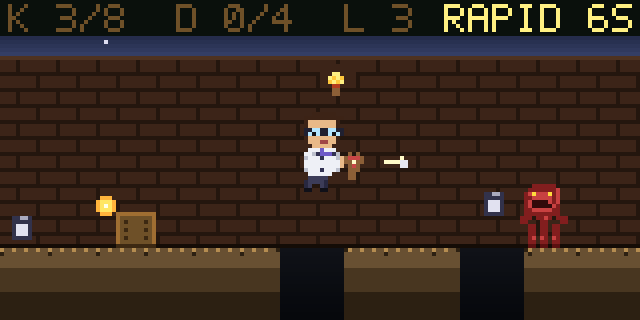
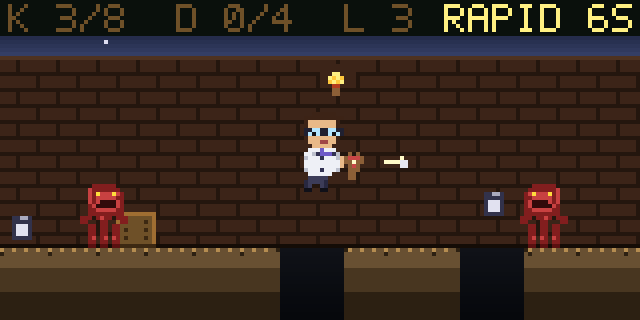
v0.6: 60 fps, framerate-independent physics, smart ghouls
Controls: the felt sluggishness was three problems stacked.

1. TARGET_FPS bumped 30 -> 60. Doubles the input poll rate (so a
   keypress is seen in <=17 ms instead of <=33 ms) and smooths motion.
2. Walk speed bumped 42 -> 95 px/sec. Player crosses a 160 px viewport
   in ~1.7 s instead of ~3.8 s.
3. ESC-sequence wait in get_keys cut from 30 ms to 5 ms. Arrow keys
   no longer eat almost a whole frame on every press.

To make the FPS bump safe, all physics is now expressed in real-time
units (px/sec, px/sec^2) and integrated with dt in tick(). Per-tick
constants are gone: JUMP_V0 / GRAVITY / PELLET_SPEED / ENEMY_SPEED_*
became JUMP_V0_PX_PER_SEC, GRAVITY_PX_PER_SEC2, PELLET_PX_PER_SEC,
ENEMY_PX_PER_SEC_MIN/MAX. Trajectory is now identical at any FPS.
Jump apex is ~24 px so 2-stacks (18 px) clear with comfortable margin.

Ghoul AI: instead of walking through crates and into pits, ghouls
now check the next step. If a crate or gap is in the way (or the
world boundary), they reverse direction. Net effect: they pace
locally around obstacles and the player has to choose the right
moment to engage.

Spawning: 50/50 chance of spawning from in front of the camera
(walking left) or from behind it (walking right) when there's room
behind. Sprites flip to face the direction they're walking, so a
ghoul approaching from the left actually faces right toward the player.

Enemy class field renamed speed -> vx (signed velocity in px/sec).
[…]

Changed region(s): [[0.125, 0.5625, 0.2188, 0.7812]]

diff --git a/game.py b/game.py
@@ -24,29 +24,29 @@ import wave
 # ===================================================================
 # Tuning
 # ===================================================================
-TARGET_FPS         = 30
-FRAME_DT           = 1.0 / TARGET_FPS
+TARGET_FPS         = 60        # bumped from 30 -- doubles input poll rate, halves
+FRAME_DT           = 1.0 / TARGET_FPS  # input latency, smooths motion.
 PLAYER_MIN_X       = 6
-PLAYER_SPEED       = 1.4       # px / tick (per discrete key event)
-PLAYER_PX_PER_SEC  = 42.0      # continuous walk speed while a direction is held
-MOVE_HOLD_S        = 0.30      # how long a key-press counts as "still held" so we
-                               # bridge the OS pre-repeat delay (~250-500ms on macOS)
-WORLD_SCREENS      = 3         # total world width in screen-widths
-CAMERA_DEAD_LO     = 0.35      # camera scrolls left if player < this fraction of fb_w
-CAMERA_DEAD_HI     = 0.55      # camera scrolls right if player > this fraction of fb_w
-PELLET_SPEED       = 3.4       # px / tick (straight shot, no gravity)
-PELLET_COOLDOWN    = 0.18      # seconds between shots
-JUMP_V0            = 2.1       # initial upward velocity (px / tick)
-GRAVITY            = 0.11      # downward accel (px / tick^2)
-                               # max jump height = JUMP_V0^2 / (2*GRAVITY) ~= 20 px
-                               # so a 2-stack crate (18 px) is just clearable.
-ENEMY_SPEED_MIN    = 0.30
-ENEMY_SPEED_MAX    = 0.65
-ENEMY_SPAWN_MIN    = 0.9
-ENEMY_SPAWN_MAX    = 2.0
-TOTAL_ENEMIES      = 8
-PLAYER_LIVES       = 3
-HIT_COOLDOWN       = 0.8
+# All physics are now expressed in real-time (px/sec, px/sec^2). Per-tick
+# values get derived in tick() via dt so physics is identical at any FPS.
+PLAYER_PX_PER_SEC      = 95.0   # walk speed -- ~2x snappier than the v0.5 42.
+MOVE_HOLD_S            = 0.45   # extends a single keypress this long so we walk
+                                # through the OS auto-repeat pre-delay (250-500ms).
+WORLD_SCREENS          = 3
+CAMERA_DEAD_LO         = 0.35
+CAMERA_DEAD_HI         = 0.55
+PELLET_PX_PER_SEC      = 160.0  # ~50% snappier than before.
+PELLET_COOLDOWN        = 0.18   # seconds between shots
+JUMP_V0_PX_PER_SEC     = 150.0  # initial jump velocity. With GRAVITY below,
+GRAVITY_PX_PER_SEC2    = 460.0  # peak jump = v0^2 / (2g) ~ 24 px (clears a
+                                # 2-stack crate, 18 px, with comfortable margin).
+ENEMY_PX_PER_SEC_MIN   = 14.0   # ghoul shamble speed. 14 = leisurely, 28 = brisk.
+ENEMY_PX_PER_SEC_MAX   = 28.0
+ENEMY_SPAWN_MIN        = 0.9
+ENEMY_SPAWN_MAX        = 2.0
+TOTAL_ENEMIES          = 8
+PLAYER_LIVES           = 3
+HIT_COOLDOWN           = 0.8
 
 # ===================================================================
 # Flavor text (some carried over)
@@ -549,11 +549,13 @@ class Pellet:
 
 
 class Enemy:
-    __slots__ = ("x", "y", "speed", "hp", "alive", "anim_t")
-    def __init__(self, x, y, speed):
+    """A red ghoul. Moves at vx px/sec (signed -> direction). Reverses
+    direction when it would step into a crate or fall into a gap."""
+    __slots__ = ("x", "y", "vx", "hp", "alive", "anim_t")
+    def __init__(self, x, y, vx):
         self.x = x
         self.y = y
-        self.speed = speed
+        self.vx = vx        # px/sec; negative = walking left, positive = right
         self.hp = 1
         self.alive = True
         self.anim_t = 0.0
@@ -776,7 +778,8 @@ class World:
         # pellet emerges from slingshot tip ~ right side of nerd, mid-height
         sling_x = self.player_x + (12 if self.player_face_right else 1)
         sling_y = self.player_y + 12
-        vx = PELLET_SPEED if self.player_face_right else -PELLET_SPEED
+        # vx is in px/sec; pellet update integrates with dt
+        vx = PELLET_PX_PER_SEC if self.player_face_right else -PELLET_PX_PER_SEC
         self.pellets.append(Pellet(sling_x, sling_y, vx))
         play("shoot")
 
@@ -843,7 +846,7 @@ class World:
                 # SPACE = jump (NES/SNES platformer convention).
                 # UP is reserved for future ladder/vertical movement.
                 if self.player_grounded:
-                    self.player_vy = -JUMP_V0
+                    self.player_vy = -JUMP_V0_PX_PER_SEC  # px/sec, integrated below
                     self.player_grounded = False
                     # Capture jump direction from recent press history. The OS
                     # auto-repeat pre-delay (~250-500ms) can leave a gap where
@@ -891,13 +894,17 @@ class World:
 
         # ---- vertical motion (jump / fall / land on platforms) ----
         if not self.player_grounded:
-            self.player_vy += GRAVITY
-            new_y = self.player_y + self.player_vy
+            # vy is in px/sec; gravity in px/sec^2. Both integrated with dt
+            # so physics is identical at any FPS.
+            self.player_vy += GRAVITY_PX_PER_SEC2 * dt
+            new_y = self.player_y + self.player_vy * dt
             if self.player_vy > 0:  # falling: try to land on the highest surface
                 old_feet = self.player_y + len(NERD)
                 new_feet = new_y + len(NERD)
                 floor = self._floor_top_at(self.player_x)
-                if new_feet >= floor and old_feet <= floor + 1:
+                # Allow crossing several pixels of floor in a single frame so
+                # we still catch the surface when vy*dt is large.
+                if new_feet >= floor and old_feet <= floor + 4:
                     self.player_y = floor - len(NERD)
                     self.player_vy = 0.0
                     self.player_grounded = True
@@ -936,15 +943,24 @@ class World:
             self.camera_x = self.player_x - self.fb_w * CAMERA_DEAD_LO
         self.camera_x = max(0.0, min(float(self.world_w - self.fb_w), self.camera_x))
 
-        # ---- spawn enemies just past the right edge of the camera ----
+        # ---- spawn enemies, half from in front (right of camera), half from
+        # behind (left of camera). Each enemy walks toward the player. ----
         now = time.time()
         if (self.spawned < TOTAL_ENEMIES
                 and now >= self.next_spawn
                 and len([e for e in self.enemies if e.alive]) < 4):
-            speed = random.uniform(ENEMY_SPEED_MIN, ENEMY_SPEED_MAX)
-            ex = self.camera_x + self.fb_w + 4
+            speed_mag = random.uniform(ENEMY_PX_PER_SEC_MIN, ENEMY_PX_PER_SEC_MAX)
+            from_behind = random.random() < 0.5
+            if from_behind and self.camera_x > 24:
+                # spawn left of the camera, walking RIGHT toward the player
+                ex = self.camera_x - 16
+                vx = speed_mag
+            else:
+                # spawn right of the camera, walking LEFT toward the player
+                ex = self.camera_x + self.fb_w + 4
+                vx = -speed_mag
             ey = self.ground_y - len(ENEMY_A)
-            self.enemies.append(Enemy(ex, ey, speed))
+            self.enemies.append(Enemy(ex, ey, vx))
             self.spawned += 1
             self.next_spawn = now + random.uniform(ENEMY_SPAWN_MIN, ENEMY_SPAWN_MAX)
 
@@ -952,7 +968,7 @@ class World:
         for p in self.pellets:
             if not p.alive:
                 continue
-            p.x += p.vx
+            p.x += p.vx * dt
             # crate absorption
             for ox, oy, ow, oh in self.obstacles:
                 if ox <= p.x <= ox + ow and oy <= p.y <= oy + oh:
@@ -963,11 +979,35 @@ class World:
                 p.alive = False
         self.pellets = [p for p in self.pellets if p.alive]
 
-        # enemies
+        # ---- enemies. They block on crates and pits; they reverse direction
+        # when they would step into one. ----
+        ENEMY_W = len(ENEMY_A[0])  # 12
+        ENEMY_H = len(ENEMY_A)     # 16
         for e in self.enemies:
             if not e.alive:
                 continue
-            e.x -= e.speed
+            new_x = e.x + e.vx * dt
+            # Would the next position put the ghoul inside an obstacle?
+            blocked = False
+            for ox, oy, ow, oh in self.obstacles:
+                # Use a tight bbox around the ghoul for the collision check
+                if (new_x + 1 < ox + ow and new_x + ENEMY_W - 1 > ox
+                        and e.y + 1 < oy + oh and e.y + ENEMY_H > oy):
+                    blocked = True
+                    break
+            # About to walk off into a gap? Sample the ground at the leading
+            # foot's x position. Also reverse at world boundaries so they
+            # don't escape sideways.
+            if not blocked:
+                lead_x = new_x + (ENEMY_W if e.vx > 0 else 0)
+                if self._in_gap(int(lead_x)):
+                    blocked = True
+                elif lead_x <= -8 or lead_x >= self.world_w + 8:
+                    blocked = True
+            if blocked:
+                e.vx = -e.vx       # turn around, keep shambling
+            else:
+                e.x = new_x
             e.anim_t += dt
             # collide with pellets (bounding box: enemy ~ 12x16 at e.x..e.x+11)
             for p in self.pellets:
@@ -1097,7 +1137,8 @@ def render_world(fb, world):
         sx = int(e.x) - cx
         if -16 <= sx < fb.w + 16:
             frame = ENEMY_A if int(e.anim_t * 6) % 2 == 0 else ENEMY_B
-            fb.blit_sprite(frame, sx, int(e.y), flip=True)
+            # Sprites are drawn facing right by default; flip when walking left
+            fb.blit_sprite(frame, sx, int(e.y), flip=(e.vx < 0))
 
     # Player
     psx = int(world.player_x) - cx
@@ -1417,15 +1458,18 @@ def get_keys():
             break
         data += chunk
 
+    # If the read ended mid-escape-sequence, give the OS a tiny window to
+    # deliver the rest. 5 ms is plenty -- the entire CSI is normally one
+    # write -- and keeps input latency low at 60 fps.
     if data.endswith(b"\x1b"):
-        r, _, _ = select.select([fd], [], [], 0.03)
+        r, _, _ = select.select([fd], [], [], 0.005)
         if r:
             try:
                 data += os.read(fd, 8)
             except (BlockingIOError, OSError):
                 pass
     if len(data) >= 2 and data[-2] == 0x1b and data[-1] in (0x5b, 0x4f):
-        r, _, _ = select.select([fd], [], [], 0.03)
+        r, _, _ = select.select([fd], [], [], 0.005)
         if r:
             try:
                 data += os.read(fd, 8)

diff --git a/README.md b/README.md
@@ -21,13 +21,13 @@ prompt also blinks; this is a static snapshot.)*
 
 ### In-game
 
-Side-scrolling pixel diorama: lab-coat nerd mid-jump over a pit, RAPID
-powerup glowing on the ground, floppy-disk pickups scattered around,
-torchlit brick corridor, slingshot pellet mid-flight, ghoul on the
-right. The world is several screens wide and the camera follows the
-player.
+Side-scrolling pixel diorama: lab-coat nerd mid-jump over a pit,
+ghouls closing in from **both sides**, RAPID powerup glowing on the
+ground, floppy-disk pickups scattered around, torchlit brick corridor,
+slingshot pellet mid-flight. The world is several screens wide and the
+camera follows the player.
 
-![in-game: lab-coat nerd mid-jump over a pit with floppies, a RAPID powerup, and a ghoul](docs/ingame.png)
+![in-game: lab-coat nerd mid-jump over a pit between two ghouls coming from both sides](docs/ingame.png)
 
 *(Same source: real framebuffer output, 4x nearest-neighbor upscale.
 The actual game renders this scene live in your terminal using
@@ -96,6 +96,17 @@ rm -rf em-all
 (It is literally in the name.)
 
 ## Status
+
+**v0.6** -- snappier controls, smarter ghouls. Bumped target FPS from
+30 to 60 so input poll rate doubles and motion smooths out, refactored
+all physics to be framerate-independent (use `dt` instead of per-tick
+constants), increased walk speed by ~2x and jump arc clears 2-stack
+crates with comfortable margin. Tightened the ESC-sequence wait in the
+input reader from 30 ms to 5 ms, cutting per-frame input latency.
+Ghouls now **block on crates and pits** -- they reverse direction
+instead of walking through cover or falling into the abyss -- and can
+**spawn from either side** of the camera so you have to actually
+watch your back. Sprites flip to face the direction they're walking.
 
 **v0.5** -- the level actually feels like a level. Added **pits** in
 the floor (fall in, lose a life, respawn at the last safe ground tile),
